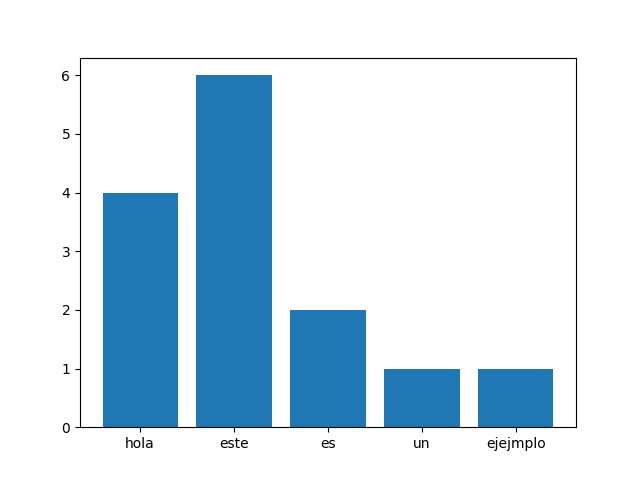
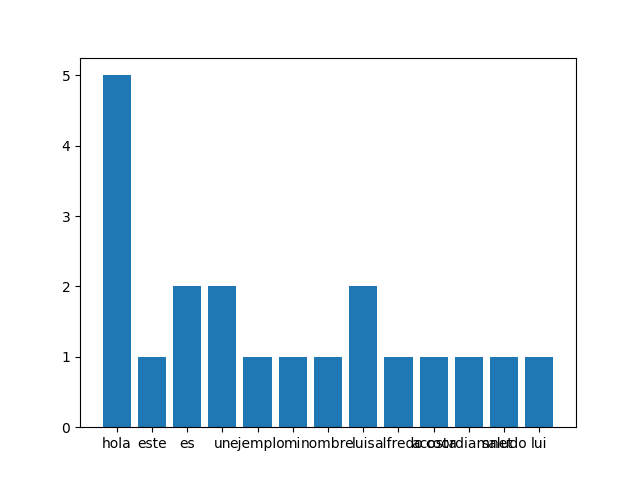
figure

diff --git a/api/app/analytics/views.py b/api/app/analytics/views.py
@@ -1,11 +1,19 @@
 # model
 # flask
-from flask import Response, request
+from flask import request
 from flask_restful import Resource
 from wordcloud import WordCloud, STOPWORDS
 import matplotlib.pyplot as plt
 from collections import OrderedDict
-from PDFminer.high_level import extract_text
+
+from pdfminer.converter import TextConverter
+from pdfminer.layout import LAParams
+from pdfminer.pdfdocument import PDFDocument
+from pdfminer.pdfinterp import PDFResourceManager, PDFPageInterpreter
+from pdfminer.pdfpage import PDFPage
+from pdfminer.pdfparser import PDFParser
+
+from io import StringIO
 
 
 def wordcloud (body):
@@ -13,7 +21,7 @@ def wordcloud (body):
     wordcloud = WordCloud(width = 800, height = 800,
                 background_color ='white',
                 stopwords = stopwords,
-                min_font_size = 10).generate(body['texto'].lower())
+                min_font_size = 10).generate(body)
  
         # plot the WordCloud image                      
     plt.figure(figsize = (8, 8), facecolor = None)
@@ -48,10 +56,9 @@ class AnalyticsApi(Resource):
         
         graphBarr(words,freqs)    
         
-        wordcloud(body)
+        wordcloud(body['texto'].lower())
         
 
-    
 
         return {"message": "Las graficas se han realizado",
                     "status": 200}, 200
@@ -60,19 +67,35 @@ class AnalyticsApiPdf(Resource):
     
     def post(self):
         body = request.files['file']
-        PDF_read = extract_text(body)
-        print(PDF_read) 
         
-        # cloud = WordCloud().generate(body['texto'].lower())
-        # print(cloud.words_)
-        # words = []
-        # freqs = []
+        output_string = StringIO()
+        parser = PDFParser(body)
+        doc = PDFDocument(parser)
+        rsrcmgr = PDFResourceManager()
+        device = TextConverter(rsrcmgr, output_string, laparams=LAParams())
+        interpreter = PDFPageInterpreter(rsrcmgr, device)
+        for page in PDFPage.create_pages(doc):
+            interpreter.process_page(page)
+            
+        reader_contents = (output_string.getvalue().lower()).split() 
 
-        # for word in cloud.words_:
-        #     words.append(word)
-        #     freqs.append(int(cloud.words_[word]*4716))
-
-        # print(words)
+        #print(reader_contents)
+        
+        freqs = []
+     
+        #words = list(cloud.words_.keys())
+        words = list(OrderedDict.fromkeys(reader_contents))
+                
+        for word in words:
+            freqs.append(reader_contents.count(word))
+            
+        
+        print(words)
+        print(freqs)
+        
+        graphBarr(words,freqs)    
+        
+        wordcloud(output_string.getvalue().lower())
 
         return {"message": "El usuario no tiene permisos para realizar esta operación.",
                     "status": 403}, 403
